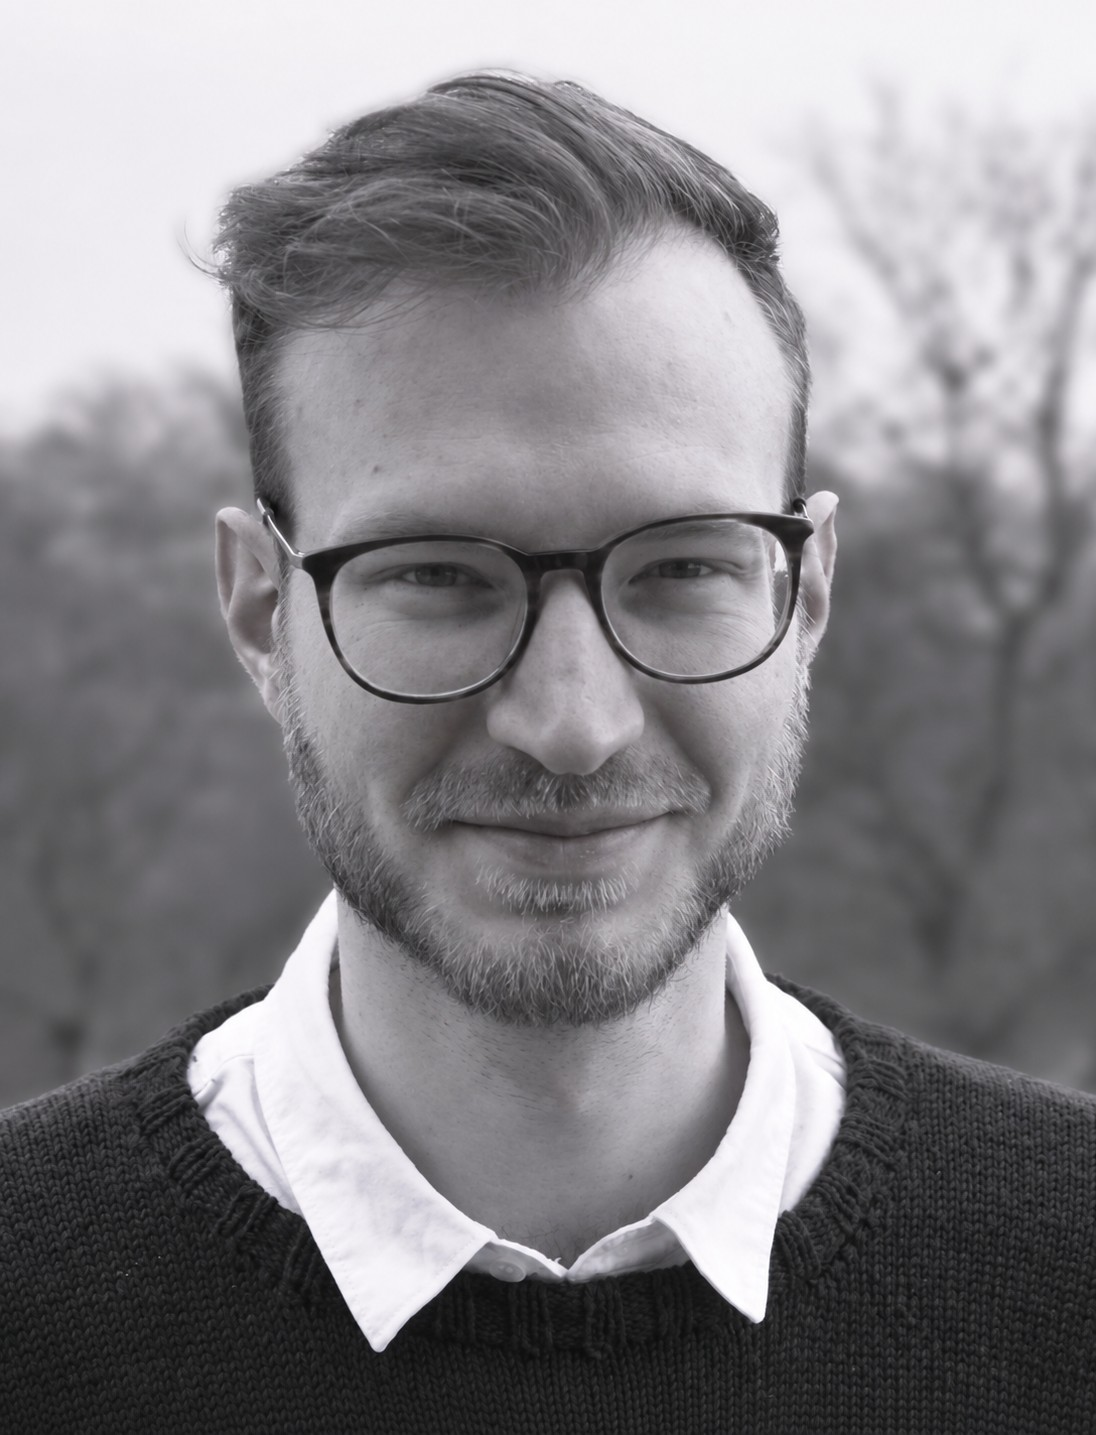
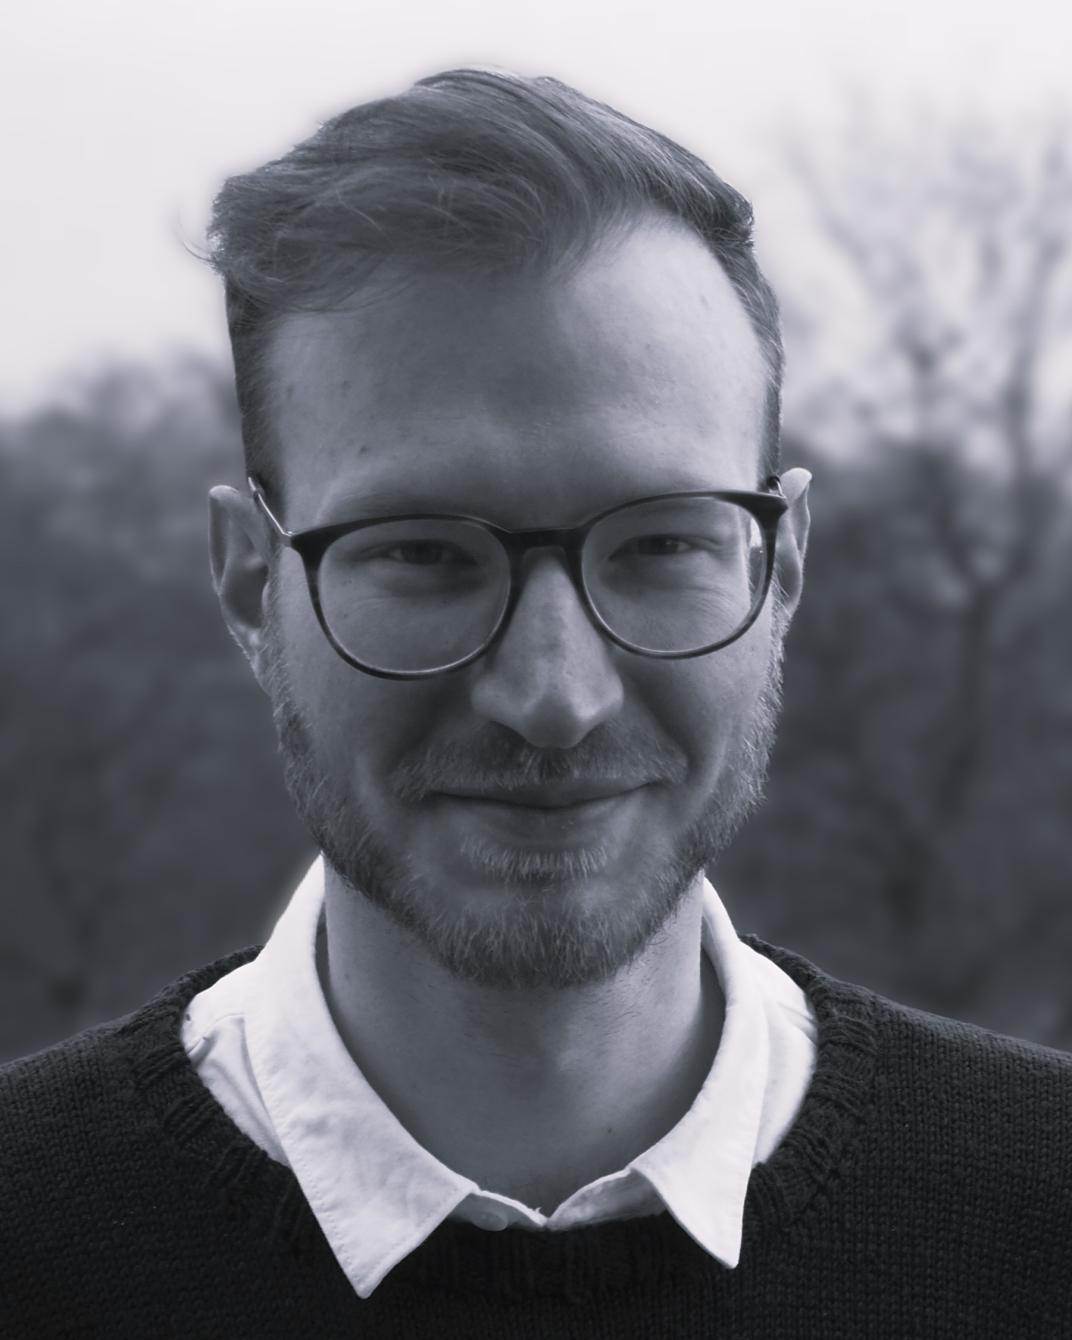
Add files via upload

diff --git a/style.css b/style.css
@@ -667,3 +667,49 @@ details[open] summary::after{content:" −";}
     gap:13px;
   }
 }
+
+
+/* ===== ABOUT PAGE: COMPACT ONE-SCREEN DESKTOP LAYOUT ===== */
+@media (min-width:761px){
+  body.home-page{
+    min-height:100vh;
+    display:flex;
+    flex-direction:column;
+  }
+
+  body.home-page .page{
+    flex:1;
+    padding-top:34px;
+    padding-bottom:20px;
+  }
+
+  body.home-page .page-heading{
+    margin-bottom:24px;
+  }
+
+  body.home-page .profile-links{
+    margin-top:18px;
+    display:flex;
+    flex-wrap:wrap;
+    justify-content:center;
+    gap:3px 14px;
+    line-height:1.45;
+  }
+
+  body.home-page .profile-links a{
+    display:inline-block;
+  }
+
+  body.home-page .about-copy p{
+    margin-bottom:21px;
+  }
+
+  body.home-page .site-footer{
+    margin-top:auto;
+  }
+
+  body.home-page .footer-inner{
+    padding-top:7px;
+    padding-bottom:18px;
+  }
+}

diff --git a/index.html b/index.html
@@ -7,7 +7,7 @@
   <meta name="description" content="Tilmann Waffenschmidt — Ph.D. candidate in Economics at Ruprecht Karl University of Heidelberg.">
   <link rel="stylesheet" href="style.css">
 </head>
-<body>
+<body class="home-page">
 <header class="site-header"><div class="site-shell"><div class="site-title"><a href="index.html">Tilmann Waffenschmidt</a></div><div class="nav-wrap"><nav class="nav" aria-label="Main navigation"><a href="index.html" class="active">About</a><a href="research.html">Research</a><a href="data.html">Data</a><a href="teaching.html">Teaching</a><a href="cv.html">CV</a></nav></div></div></header>
 <main class="page">
   <h1 class="page-heading">About</h1>
